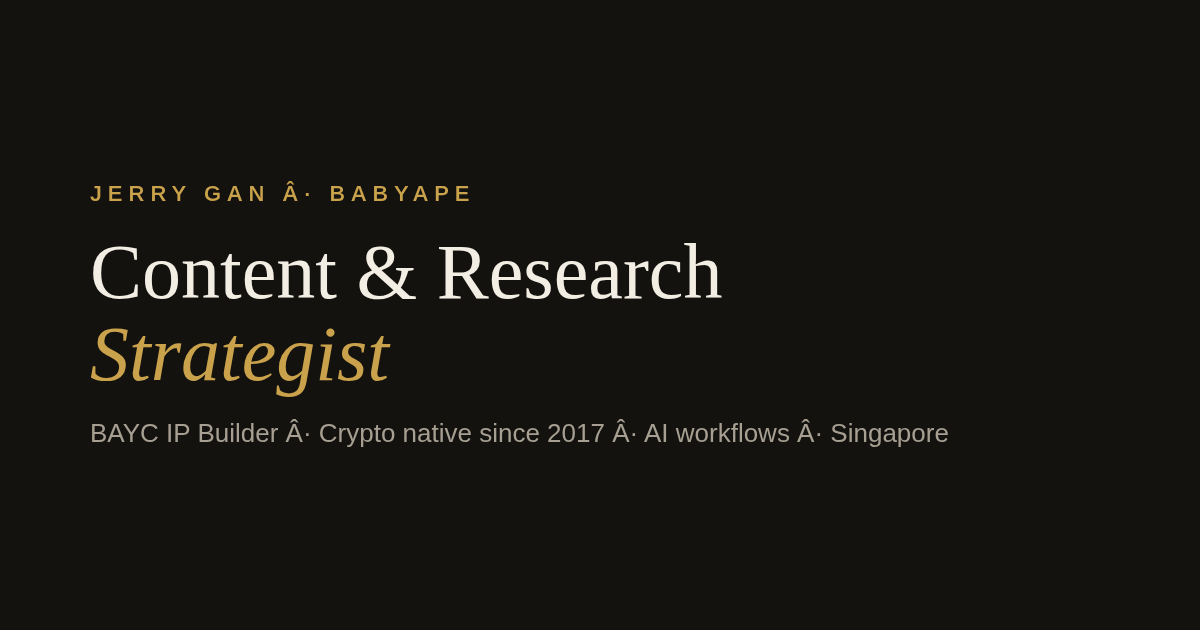
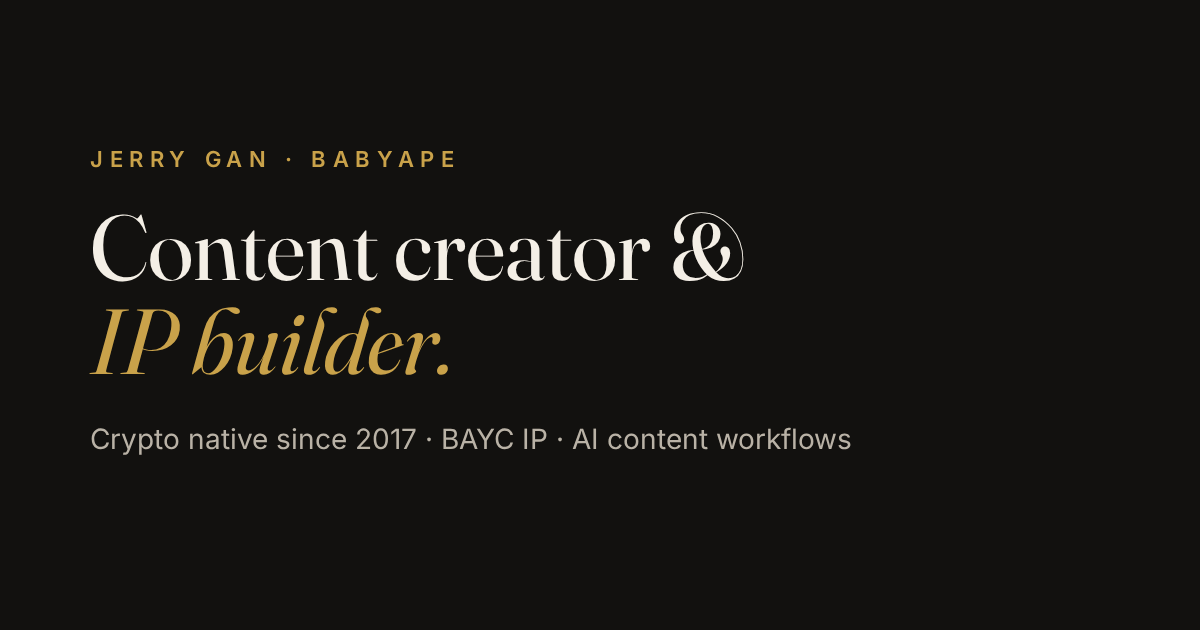
New title: Content creator & IP builder; refresh preview image

diff --git a/index.html b/index.html
@@ -1,7 +1,7 @@
 <!doctype html><html lang="en"><head><meta charset="utf-8"><meta name="viewport" content="width=device-width,initial-scale=1">
-<title>Jerry Gan (BabyApe) · Content &amp; Research Strategist</title>
-<meta name="description" content="Jerry Gan (BabyApe): crypto-native content and research strategist since 2017, BAYC IP builder and AI content workflow builder.">
-<meta property="og:type" content="website"><meta property="og:url" content="https://jerry-gan.github.io/"><link rel="canonical" href="https://jerry-gan.github.io/"><meta name="twitter:image" content="https://jerry-gan.github.io/og.png"><meta property="og:title" content="Jerry Gan (BabyApe) · Content &amp; Research Strategist">
+<title>Jerry Gan (BabyApe) · Content Creator &amp; IP Builder</title>
+<meta name="description" content="Jerry Gan (BabyApe): crypto-native content creator and BAYC IP builder since 2017, also building AI content workflows.">
+<meta property="og:type" content="website"><meta property="og:url" content="https://jerry-gan.github.io/"><link rel="canonical" href="https://jerry-gan.github.io/"><meta name="twitter:image" content="https://jerry-gan.github.io/og.png"><meta property="og:title" content="Jerry Gan (BabyApe) · Content Creator &amp; IP Builder">
 <meta property="og:description" content="Crypto-native content &amp; research since 2017. BAYC IP builder. AI content workflows.">
 <meta property="og:image" content="https://jerry-gan.github.io/og.png"><meta name="twitter:card" content="summary_large_image"><meta name="twitter:site" content="@babyape113"><meta name="twitter:creator" content="@babyape113">
 <meta name="theme-color" content="#14120f"><link rel="icon" href="favicon.svg" type="image/svg+xml">
@@ -14,9 +14,9 @@
 <main id="main">
 <div class="hero" id="top"><div class="wrap">
 <p class="eyebrow">Crypto native since 2017</p>
-<h1>Content &amp; research<br><em>strategist.</em></h1>
+<h1>Content creator &amp;<br><em>IP builder.</em></h1>
 <p class="lede">I translate complex crypto and financial topics into research articles, market commentary, product explainers and campaigns, across CEXs, DeFi and cross-chain protocols. I also build The BabyApe, a licensed BAYC Web3 IP, and AI-assisted editorial workflows with human approval.</p>
-<ul class="tags" aria-label="Focus areas"><li>Content &amp; research strategy</li><li>BAYC IP builder</li><li>Market commentary</li><li>AI workflows</li></ul>
+<ul class="tags" aria-label="Focus areas"><li>Content creation</li><li>BAYC IP builder</li><li>Market commentary</li><li>AI workflows</li></ul>
 <div class="cta"><a class="btn solid" href="#work">View selected work</a><a class="btn" href="#contact">Get in touch</a></div>
 </div></div>
 <div class="press" aria-label="Work picked up by"><div class="wrap">PICKED UP BY <b>Bitcoin Magazine NL</b><b>Binance</b><b>Yahoo Finance</b><b>AP News</b><b>TechTimes</b><b>NFTlab Magazine</b></div></div>
